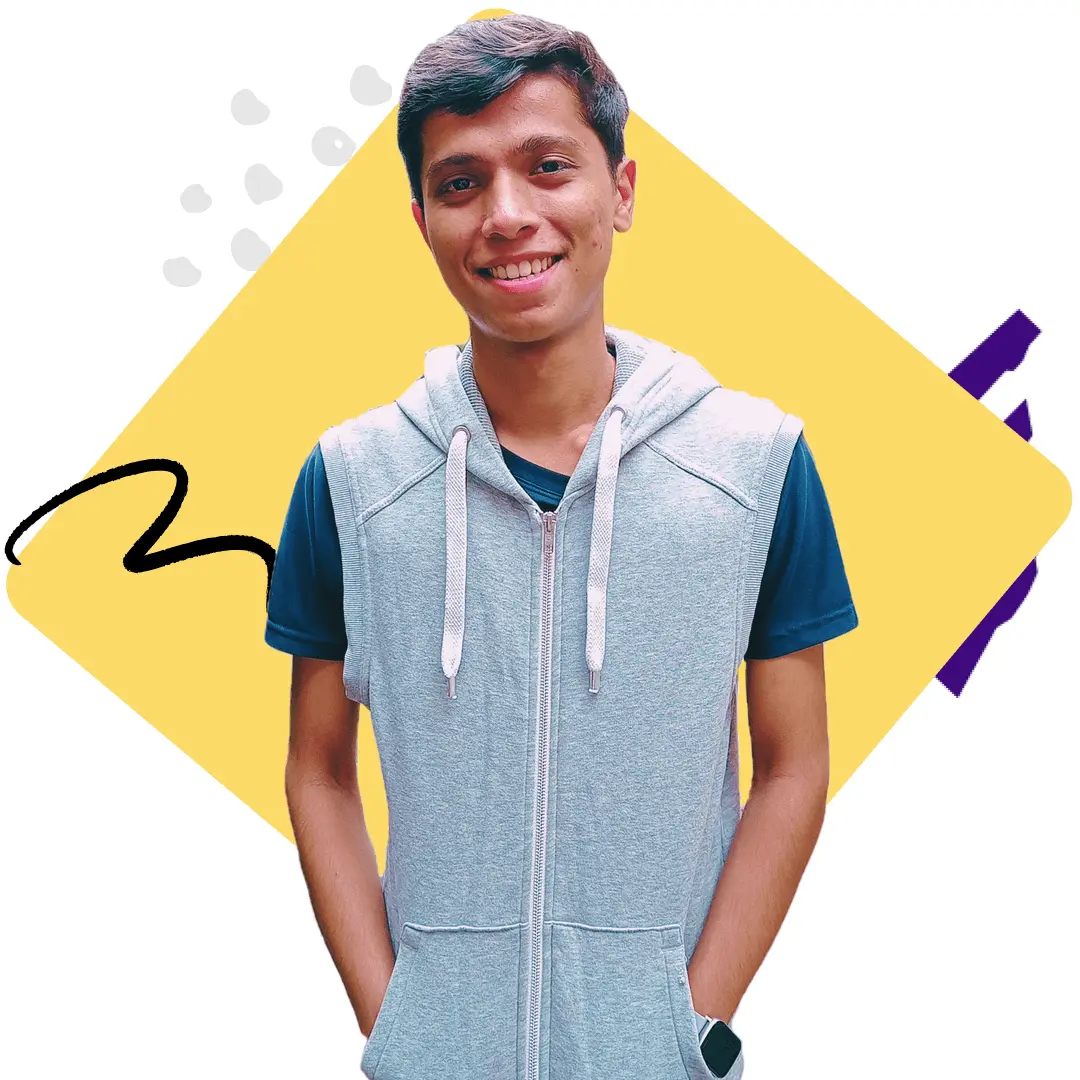
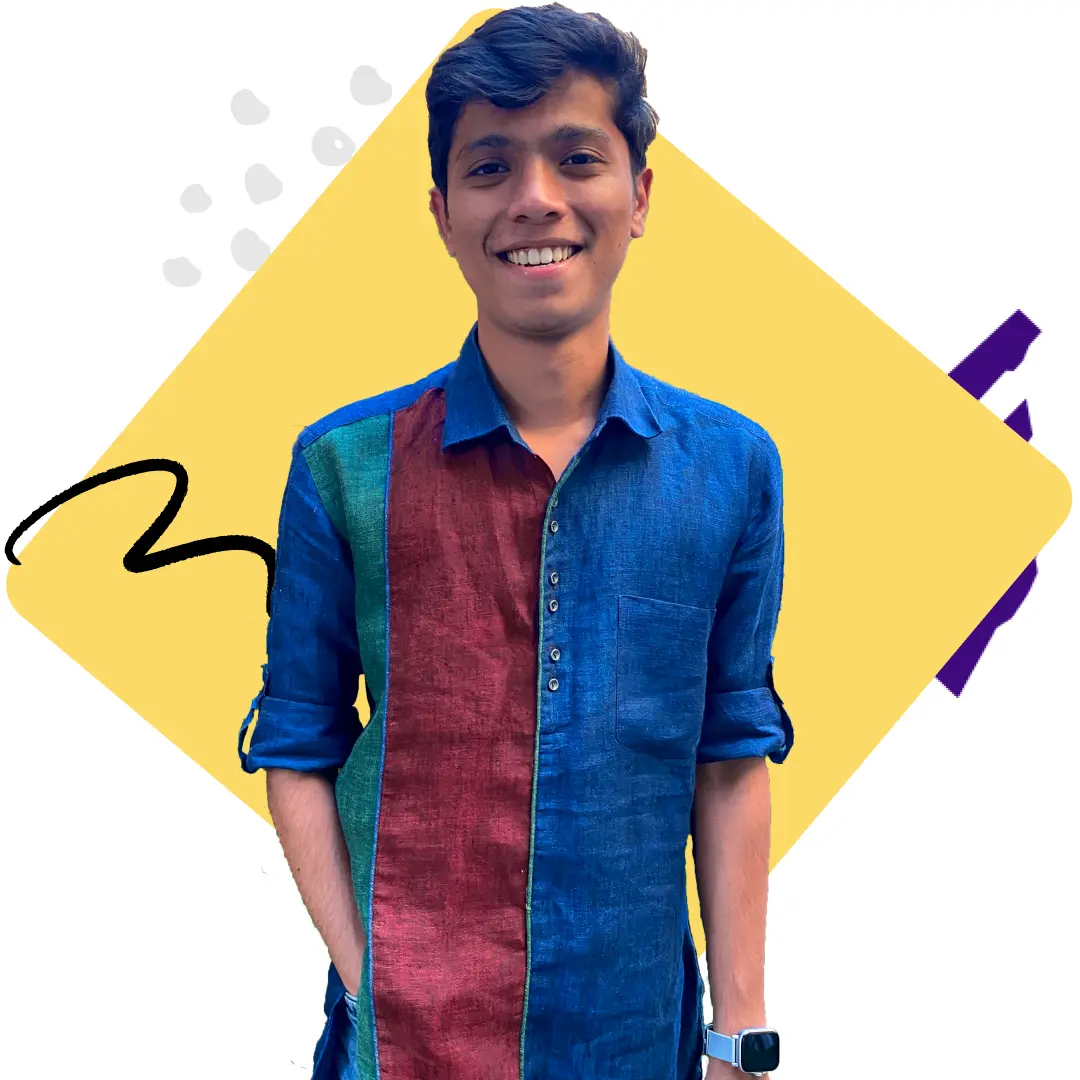
updated resume, experience and photo

diff --git a/Data/experience.js b/Data/experience.js
@@ -5,11 +5,11 @@ export default [
     company: "Bridged Media",
     logo: "/Experience/Bridged Media/logo.png",
     tasksAndAchievements: [
-      "Built a landing page using NextJS , and Tailwind CSS which has an average of 17,000 visitors per month .",
-      "Built an end-to-end portal in MERN stack that lets publishers create engagement and actions for any platform which can increase retention by 40% .",
-      "Built reusable UI components using ReactJS , Ant Design , and CSS3 which decreased further development time by 45% .",
-      "Built connection between Flutter web and ReactJS that reduced data sharing time from 1s to 1ms .",
-      "Migrated endpoints and frontend for an internal portal from PHP to NestJS and Angular respectively which saved 25% of the time for the Team.",
+      "Built a landing page using NextJS, and Tailwind CSS which has an average of 17,000 visitors per month.",
+      "Built an end-to-end portal in the MERN stack that lets publishers create engagement and actions for any platform which can increase revenue by 150%.",
+      "Built reusable UI components using ReactJS, Ant Design, and CSS3 which decreased further development time by 50%.",
+      "Built a connection between Flutter web and ReactJS that reduced data sharing time from 1s to 1ms.",
+      "Migrated endpoints and frontend for an internal portal from PHP to NestJS and Angular respectively which saved 30% of the time for the Team.",
     ],
   },
   {
@@ -18,8 +18,8 @@ export default [
     company: "Conscience Journal",
     logo: "/Experience/Conscience Journal/logo.jpg",
     tasksAndAchievements: [
-      "Built a Landing page for Conscience Journal using HTML , CSS , and JavaScript .",
-      "Build a Newsletter API Back-end using NodeJS , ExpressJS , and MongoDB used by an average of 5000 visitors.",
+      "Built a Landing page for Conscience Journal using HTML, CSS , and JavaScript.",
+      "Build a Newsletter API Back-end using NodeJS, ExpressJS, and MongoDB used by an average of 5000 visitors.",
     ],
   },
   {
@@ -29,7 +29,7 @@ export default [
     logo: "/Experience/KisanKonnect/logo.jpg",
     tasksAndAchievements: [
       "Contributed to the sales team which increased sales by 30% .",
-      "Managed social media leads with an average retention of 25% .",
+      "Managed social media leads with an average retention of 25-35%.",
     ],
   },
   {
@@ -50,8 +50,8 @@ export default [
     logo: "/Experience/Indian Tech/logo.webp",
     tasksAndAchievements: [
       "Built a Browser app for the Android platform which generated revenue of 123.56 USD in the first month.",
-      "Built a website using HTML , CSS , and JavaScript showing live scores of the ongoing cricket match.",
-      "Built Landing pages for local businesses using HTML , and CSS with an average retention of 50%.",
+      "Built a website using HTML, CSS, and JavaScript showing live scores of the ongoing cricket match.",
+      "Built Landing pages for local businesses using HTML, and CSS with an average retention of 50%.",
     ],
   },
 ];

diff --git a/styles/globals.css b/styles/globals.css
@@ -1,4 +1,3 @@
-/* @import url("https://fonts.googleapis.com/css2?family=Poppins:ital,wght@0,100;0,200;0,300;0,400;0,500;0,600;0,700;0,800;0,900;1,100;1,200;1,300;1,400;1,500;1,600;1,700;1,800;1,900&display=swap"); */
 * {
   margin: 0;
   padding: 0;
@@ -386,10 +385,6 @@ button span {
   margin-top: var(--mp-secondary);
   align-items: center;
   justify-content: space-between;
-}
-
-.servicesCardFooter h2 {
-  color: var(--secondary-color);
 }
 
 /* ------------------- Experience ---------------- */
